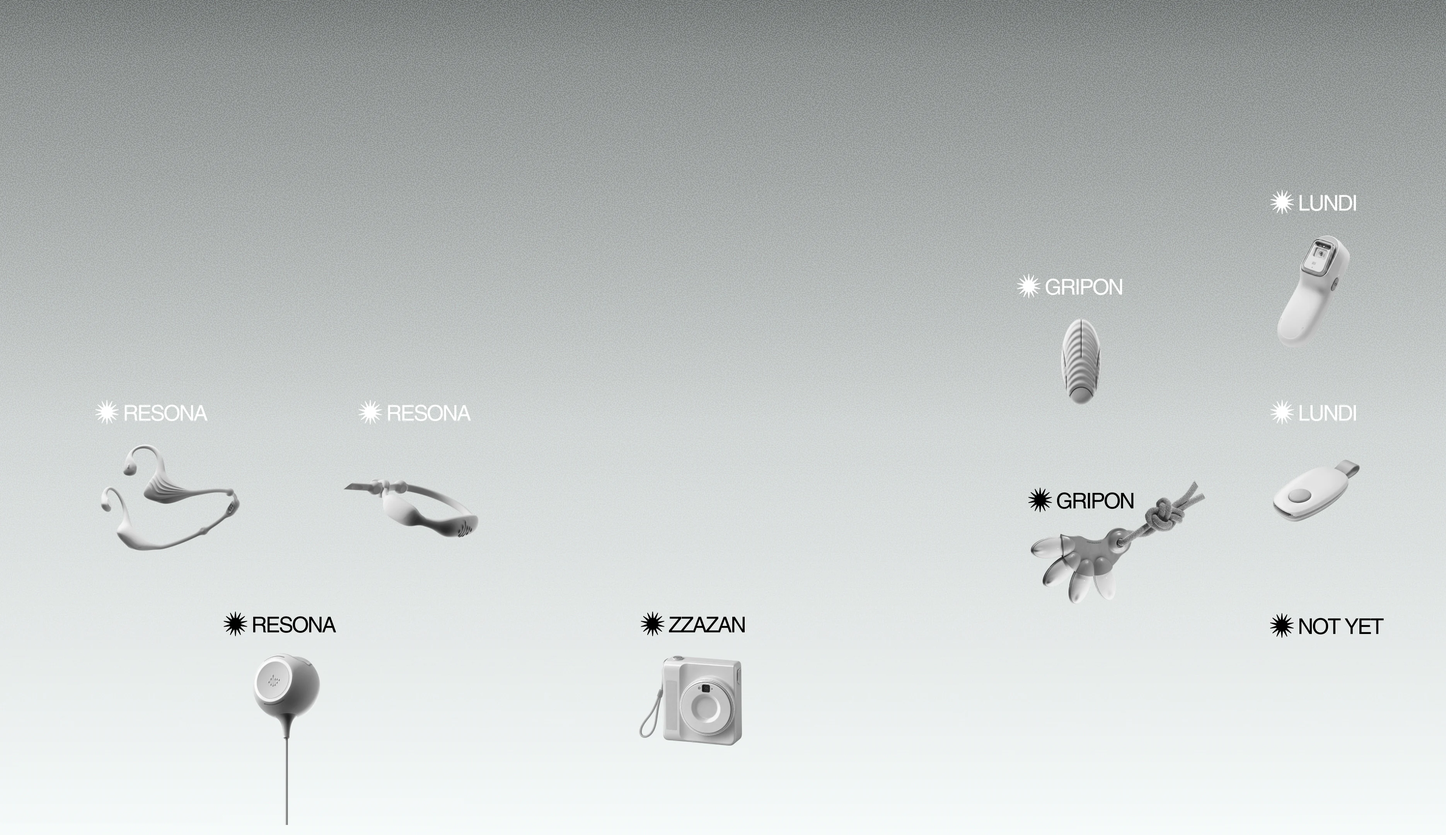
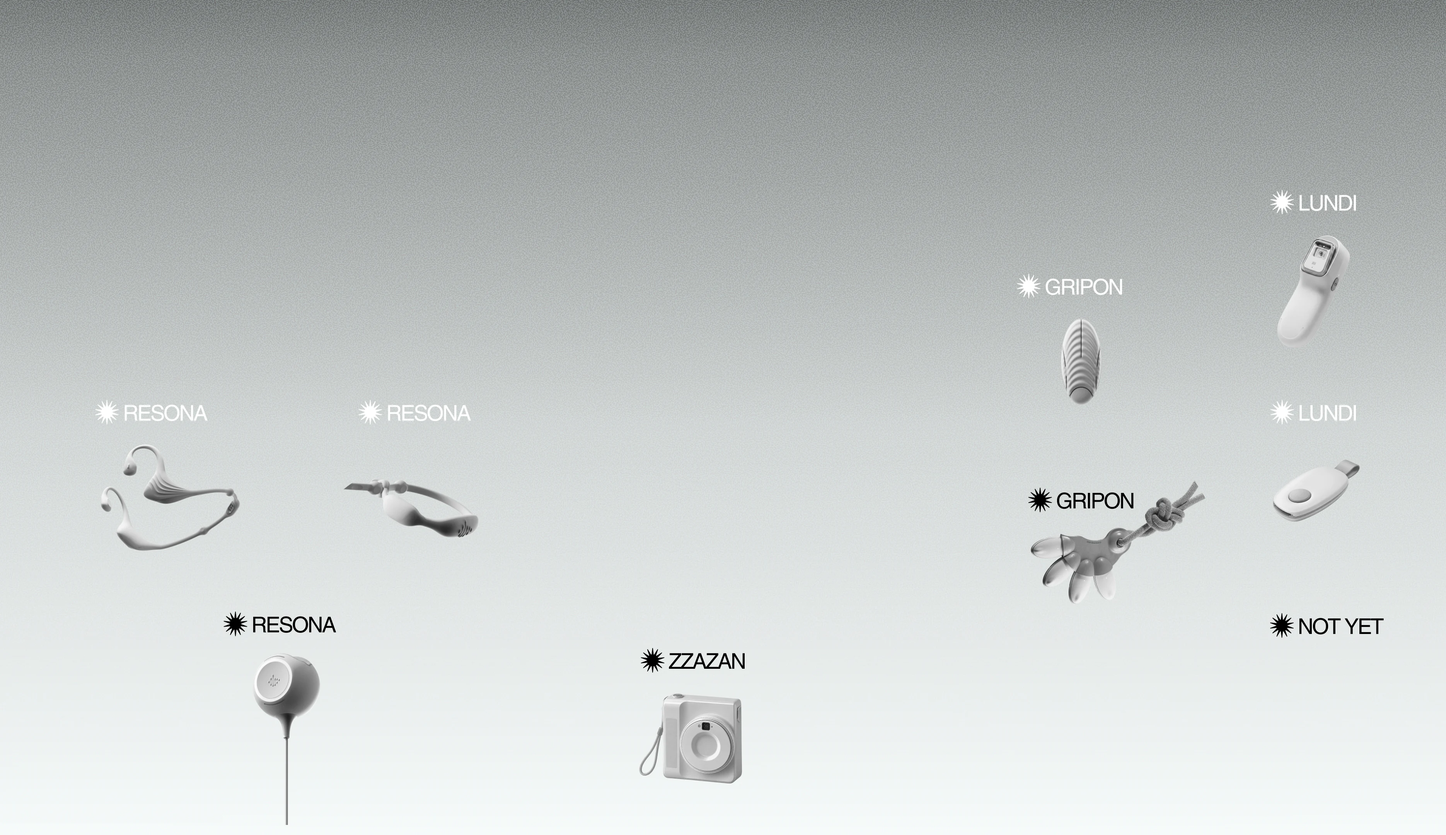
Intro: one project at a time builds then collapses; Zza-zan added
- Each thumbnail (Lundi, Gripon, Resona, Zza-zan) fills the screen as
  ASCII, scans in top to bottom, holds, then collapses: most characters
  flicker away, about a fifth drop and pile on the floor (as in the
  reference), then the next project builds (~7s total)
- Device overview -> updated Slide 486 (Zza-zan label/camera moved);
  p4 -> new Slide 478, aligned

Claude-Session: https://claude.ai/code/session_012dbJxhrZ9z4sLjTj9C1ziJ

Changed region(s): [[0.4342, 0.7134, 0.5273, 0.9616]]

diff --git a/portfolio/index.html b/portfolio/index.html
@@ -362,8 +362,10 @@
   const RAMP = " .`':,;-~^\"=+<>!*?|/\\()[]{}1iIl7tfjrJLYCXZUSOQD08GB&%#@";
   const NOISE = "%#@&8BGSDOQ0$?!*+=-:;.~^";
   // column order: 1 Lundi (Slide 488), 2 Gripon (487), 3 Resona (483), 4-5 not made yet
-  const SRC = [{ src: 'img/intro/lundi.webp', fx: .39, z: .5, fy: .52 }, { src: 'img/intro/gripon.webp', fx: .33 },
-               { src: 'img/intro/resona.webp', fx: .66 }, null, null];
+  // one project at a time: 1 Lundi (488), 2 Gripon (487), 3 Resona (483), 4 Zza-zan (478)
+  const SRC = [{ src: 'img/intro/lundi.webp' }, { src: 'img/intro/gripon.webp' },
+               { src: 'img/intro/resona.webp' }, { src: 'img/intro/zzazan.webp' }];
+  const SLOT = 1500, T0 = 500, BUILD = 600, HOLD = 280;
   const imgs = SRC.map(s => { if (!s) return null; const im = new Image(); im.src = s.src; return im; });
   const R = (i, k) => { const x = Math.sin(i * 12.9898 + k * 78.233) * 43758.5453; return x - Math.floor(x); };
   let W, H, CW, CH, COLS, ROWS, cells = [], t0 = 0, started = false, done = false;
@@ -390,36 +392,35 @@
     return out;
   }
   function layout() {
+    // each image fills the screen (16:9, contained), builds up, holds, then collapses: most characters thin
+    // out and flicker away while the rest drop and pile up on the floor (after the reference video)
     cells = [];
-    const m = 2, gap = 3, top = 3, bottom = ROWS - 2;
-    const colW = Math.floor((COLS - m * 2 - gap * 4) / 5), ch = bottom - top;
-    // header line, set in the same characters so it breaks with everything else
-    const head = [['JIEUN.SEO', m]];
-    head.forEach(([txt, x0], hi) => [...txt].forEach((c, k) => cells.push({ x: x0 + k, y: 1, t: c, col: hi % 5, a: 1, i: cells.length })));
-    for (let c = 0; c < 5; c++) {
-      const x0 = m + c * (colW + gap);
+    const top = 3, availW = COLS - 4, availH = ROWS - top - 2;
+    let gw = availW, gh = Math.round(gw * 9 / 16 * CW / CH);
+    if (gh > availH) { gh = availH; gw = Math.round(gh * 16 / 9 * CH / CW); }
+    const gx = Math.round((COLS - gw) / 2), gy = top + Math.round((availH - gh) / 2), floorRow = ROWS - 1;
+    SRC.forEach((s, c) => {
       const im = imgs[c];
-      const dk = im && im.complete && im.naturalWidth ? sample(im, SRC[c].fx, colW, ch, SRC[c].z, SRC[c].fy) : null;
-      for (let y = 0; y < ch; y++) for (let x = 0; x < colW; x++) {
-        const i = c * 100003 + y * colW + x;            // stable per-cell seed
-        let ch2 = ' ', a = 1;
-        if (dk) {
-          const v = dk[y * colW + x];
-          if (v < .08) continue;
-          ch2 = RAMP[Math.min(RAMP.length - 1, Math.round(v * (RAMP.length - 1)))];
-        } else {                                       // projects not made yet: a sparse, faint field
-          if (R(i, c) > .1) continue;
-          ch2 = NOISE[Math.floor(R(i, 9) * NOISE.length)]; a = .4;
+      const dk = im && im.complete && im.naturalWidth ? sample(im, .5, gw, gh, 1, .5) : null;
+      const S = T0 + c * SLOT, pile = new Map();
+      for (let y = 0; y < gh; y++) for (let x = 0; x < gw; x++) {
+        const i = c * 100003 + y * gw + x;
+        let t, a = 1;
+        if (dk) { const v = dk[y * gw + x]; if (v < .08) continue; t = RAMP[Math.min(RAMP.length - 1, Math.round(v * (RAMP.length - 1)))]; }
+        else { if (R(i, c) > .12) continue; t = NOISE[Math.floor(R(i, 9) * NOISE.length)]; a = .45; }
+        const cl = { x: gx + x, y: gy + y, t, a, i, c };
+        const sweep = y / gh;                                 // builds top -> bottom like a scan
+        cl.scr = S + sweep * BUILD * .6 + R(i, 1) * 120;
+        cl.rev = cl.scr + 80 + R(i, 2) * 260;
+        cl.brk = S + BUILD + HOLD + (1 - sweep) * 260 + R(i, 3) * 380;   // lower rows give way last
+        cl.fall = R(i, 4) < .22;                              // ~1 in 5 falls to the floor, the rest dissolve
+        if (cl.fall) {
+          const col = gx + x + Math.round((R(i, 5) - .5) * 4);
+          const k = pile.get(col) || 0; pile.set(col, k + 1);
+          cl.fx = col; cl.land = floorRow - Math.floor(k * .35);
         }
-        cells.push({ x: x0 + x, y: top + y, t: ch2, col: c, a, i });
+        cells.push(cl);
       }
-    }
-    cells.forEach(cl => {
-      const S = 450 + cl.col * 520;                    // each column builds after the previous one
-      cl.scr = S - 150 + R(cl.i, 1) * 350;             // starts scrambling
-      cl.rev = S + R(cl.i, 2) * 900 + (cl.y / ROWS) * 350;   // settles on its character
-      cl.brk = 4500 + cl.col * 140 + R(cl.i, 3) * 700 + (1 - cl.y / ROWS) * 250;   // breaks away
-      cl.vx = (R(cl.i, 4) - .5) * .5; cl.vy = -R(cl.i, 5) * .35; cl.spin = R(cl.i, 6);
     });
   }
   function resize() {
@@ -465,22 +466,38 @@
     if (!started) { spiral(now, 0); requestAnimationFrame(frame); return; }
     const t = now - t0;
     if (t < 700) spiral(now, t / 700);
+    const END = T0 + SRC.length * SLOT;
     for (const cl of cells) {
       if (t < cl.scr) continue;
       let ch = cl.t, x = cl.x * CW, y = cl.y * CH, alpha = cl.a;
-      if (t < cl.rev) { ch = NOISE[Math.floor((t / 60 + cl.i) % NOISE.length)]; alpha *= .45; }
-      if (t > cl.brk) {                                 // break apart: fly off, fall, flicker, fade
+      if (t < cl.rev) { ch = NOISE[Math.floor((t / 55 + cl.i) % NOISE.length)]; alpha *= .5; }
+      if (t > cl.brk) {
         const u = t - cl.brk;
-        x += cl.vx * u; y += cl.vy * u + .0011 * u * u;
-        alpha *= Math.max(0, 1 - u / 1100);
-        if (alpha <= 0) continue;
-        if ((u / 50 + cl.spin * 10) % 3 < 1) ch = NOISE[Math.floor((u / 40 + cl.i) % NOISE.length)];
+        if (!cl.fall) {                                      // dissolve: flicker, thin out
+          alpha *= Math.max(0, 1 - u / 420);
+          if (alpha <= 0.01) continue;
+          if ((u / 45 + cl.i) % 3 < 1.2) ch = NOISE[Math.floor((u / 35 + cl.i) % NOISE.length)];
+          y += u * u * .00012 * CH;
+        } else {                                             // drop under gravity and settle on the floor
+          const fy = cl.y * CH + .0026 * u * u * CH / 10, ly = cl.land * CH;
+          const landed = fy >= ly;
+          y = landed ? ly : fy;
+          x = cl.x * CW + (cl.fx - cl.x) * CW * Math.min(1, u / 500);
+          if (!landed && (u / 60 + cl.i) % 4 < 1) ch = NOISE[Math.floor((u / 40 + cl.i) % NOISE.length)];
+          const tLand = Math.sqrt(Math.max(0, (ly - cl.y * CH)) / (.0026 * CH / 10));
+          const fadeAt = Math.max(tLand + 250, (cl.c === SRC.length - 1 ? 0 : SLOT * .55));
+          alpha *= Math.max(0, 1 - Math.max(0, u - fadeAt) / 500);
+          if (t > END - 300) alpha *= Math.max(0, 1 - (t - END + 300) / 700);
+          if (alpha <= 0.01) continue;
+        }
       }
       ctx.fillStyle = `rgba(17,17,17,${alpha})`;
       ctx.fillText(ch, x, y);
     }
-    if (t > 6200 && !intro.classList.contains('gone')) intro.classList.add('gone');
-    if (t > 7000) { finish(); return; }
+    ctx.fillStyle = `rgba(17,17,17,${t > END - 200 ? Math.max(0, 1 - (t - END + 200) / 500) : 1})`;
+    ctx.fillText('JIEUN.SEO', CW * 2, CH * .4);
+    if (t > END + 50 && !intro.classList.contains('gone')) intro.classList.add('gone');
+    if (t > END + 750) { finish(); return; }
     requestAnimationFrame(frame);
   }
   function start() {
